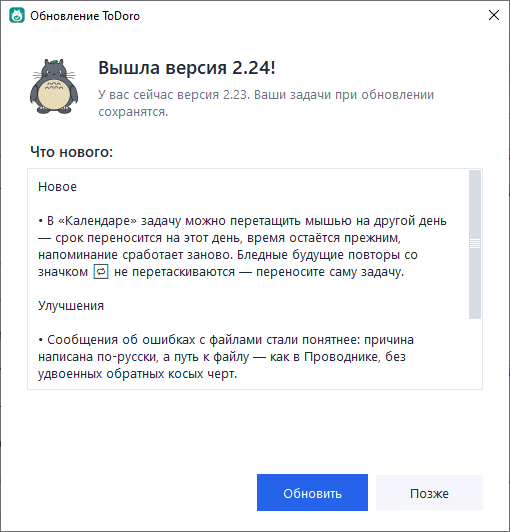
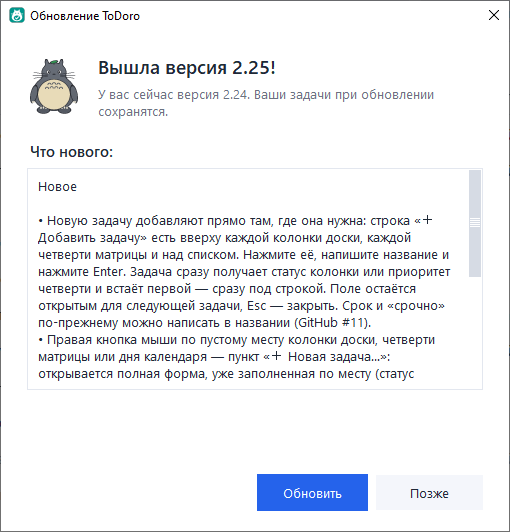
Версия 2.25

diff --git a/todoro.py b/todoro.py
@@ -37,7 +37,7 @@ from examples import make_examples
 from help_text import HELP
 
 APP_NAME = "ToDoro"  # ToDo + Totoro
-APP_VERSION = "2.24"  # номер версии — меняется здесь (установщик берёт его отсюда)
+APP_VERSION = "2.25"  # номер версии — меняется здесь (установщик берёт его отсюда)
 APP_YEAR = 2026
 COPYRIGHT_HOLDER = "Machinist"  # автор — имя меняется здесь и в файле LICENSE
 COPYRIGHT = f"© {APP_YEAR} {COPYRIGHT_HOLDER}"

diff --git a/RELEASE_NOTES.md b/RELEASE_NOTES.md
@@ -3,13 +3,18 @@
 Здесь записано, что менялось от версии к версии. Новые записи — сверху.
 Скачать установщик любой версии: https://github.com/machinist-soft/ToDoro/releases
 
-## Не выпущено
+## 2.25 — 22.10.2026
 
-- Новая задача добавляется прямо там, где она нужна: строка «＋ Добавить задачу» вверху каждой колонки доски, каждой четверти матрицы и над списком. Задача сразу получает статус колонки или приоритет четверти и встаёт первой — сразу под строкой (при любой сортировке, пока окно открыто); после Enter поле остаётся открытым для следующей задачи, Esc — закрыть. Большое поле вверху окна убрано — задачам досталось больше места (GitHub #11).
-- Правая кнопка мыши по пустому месту колонки доски, четверти матрицы или дня календаря — пункт «Новая задача…»: полная форма, уже заполненная по месту (статус, приоритет или срок в этот день).
-- Ctrl+N раскрывает «＋ Добавить задачу» в открытом виде (в календаре — форму новой задачи на сегодня).
+### Новое
+
+- Новую задачу добавляют прямо там, где она нужна: строка «＋ Добавить задачу» есть вверху каждой колонки доски, каждой четверти матрицы и над списком. Нажмите её, напишите название и нажмите Enter. Задача сразу получает статус колонки или приоритет четверти и встаёт первой — сразу под строкой. Поле остаётся открытым для следующей задачи, Esc — закрыть. Срок и «срочно» по-прежнему можно написать в названии (GitHub #11).
+- Правая кнопка мыши по пустому месту колонки доски, четверти матрицы или дня календаря — пункт «＋ Новая задача…»: открывается полная форма, уже заполненная по месту (статус колонки, приоритет четверти или срок в этот день).
+
+### Улучшения
+
+- Большое поле ввода вверху окна убрано — задачам досталось больше места. Ctrl+N раскрывает «＋ Добавить задачу» в открытом виде (в календаре — форму новой задачи на сегодня).
 - Кнопки «Из письма» и «Снимок» переехали в правый верхний угол окна, рядом с «☰ Меню».
-- Задачи в календаре заметнее: каждая — плашка с рамкой, светлым фоном и цветной полоской приоритета (красная — «срочно и важно», оранжевая — «важно», синяя — «срочно»); просроченные — красные, выполненные и будущие повторы — бледные (GitHub #10).
+- Задачи в календаре стали заметнее: каждая — плашка с рамкой, светлым фоном и цветной полоской приоритета (красная — «срочно и важно», оранжевая — «важно», синяя — «срочно»). Просроченные — красные, выполненные и будущие повторы — бледные (GitHub #10).
 
 ## 2.24 — 21.10.2026
 
